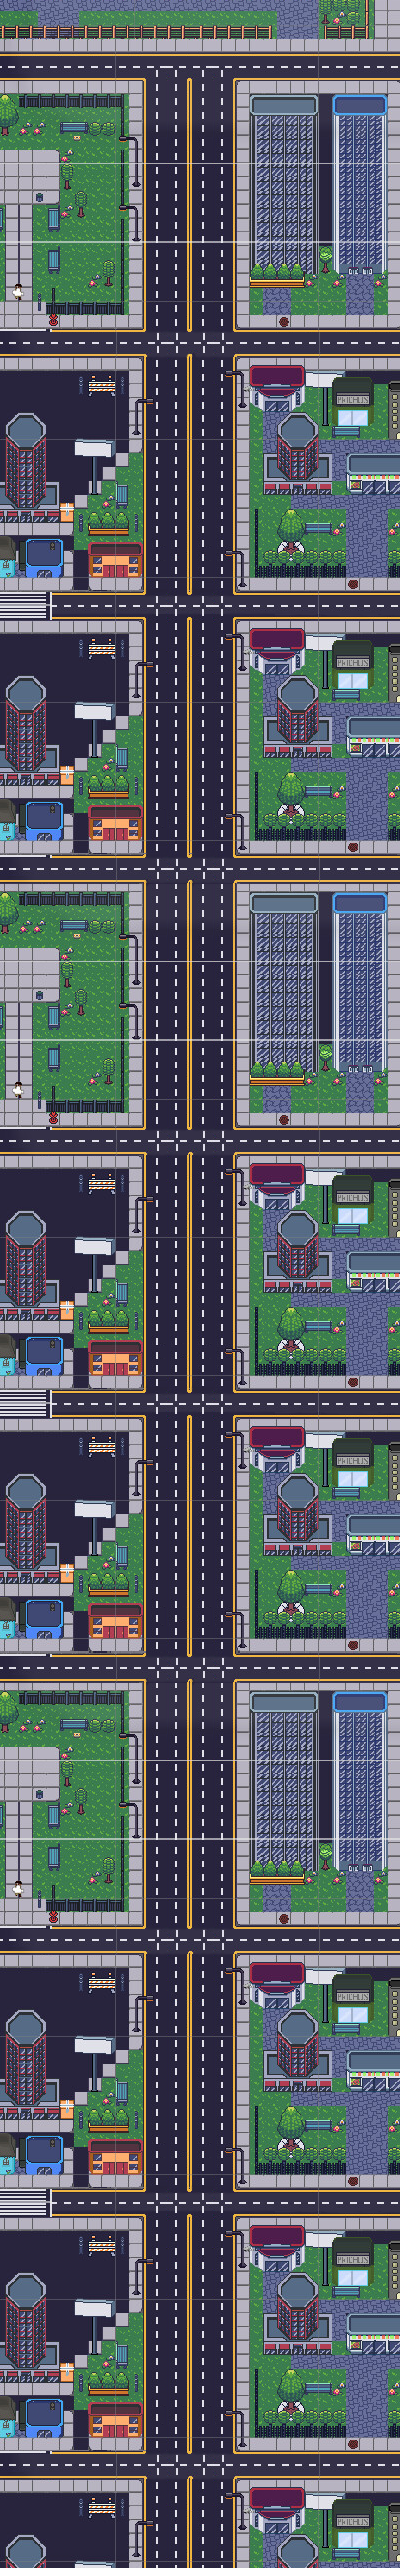
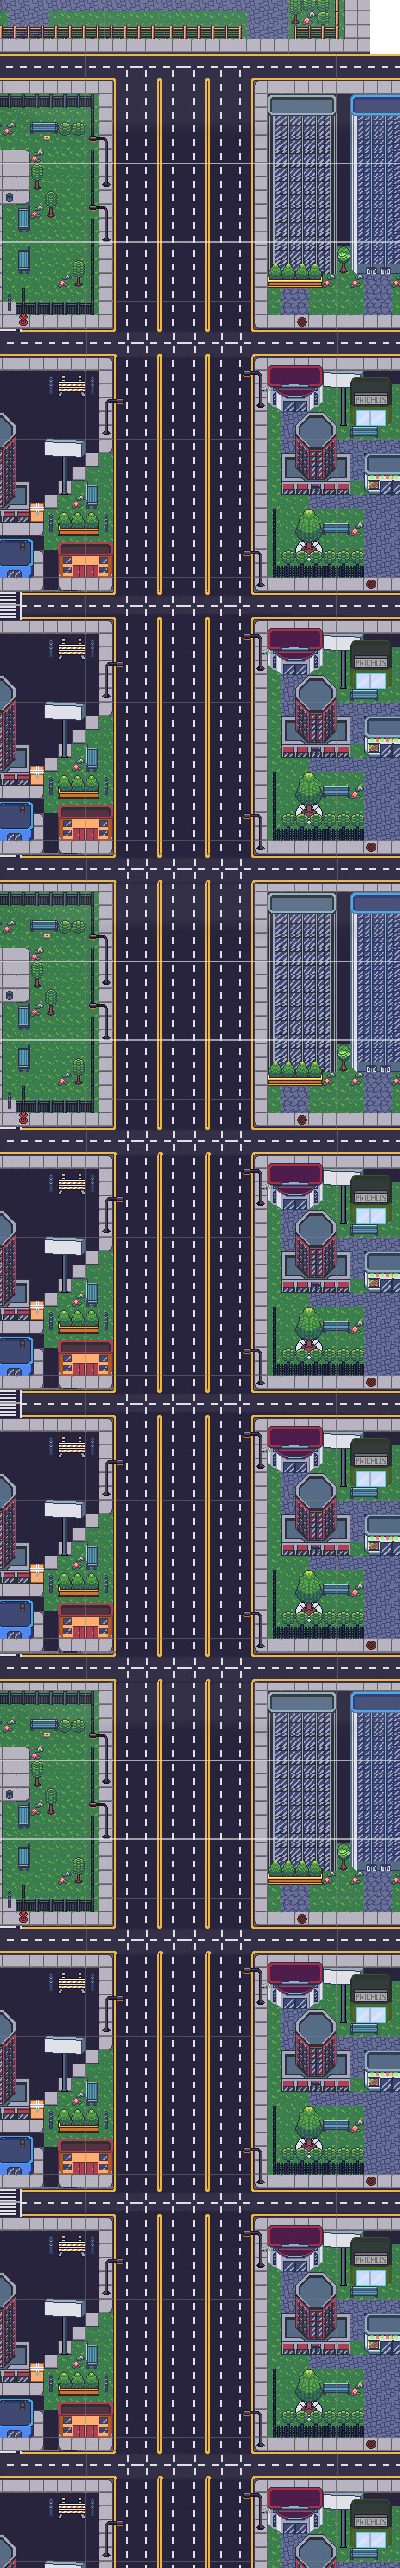
Actualización de los mapas (Assets y códigos)

diff --git a/lib/game_page.dart b/lib/game_page.dart
@@ -330,7 +330,7 @@ class _GamePageState extends State<GamePage> {
     final screenSize = MediaQuery.of(context).size;
     String mapImage;
   if (widget.selectedMap == 'Parque') { //Si el mapa seleccionado es Parque, usar la imagen correspondiente
-    mapImage = 'assets/maps/mapa_vertical.png';
+    mapImage = 'assets/maps/mapa_parque_vertical.png';
   } else { //Si no, usar la imagen de Ciudad
     mapImage = 'assets/maps/mapa_city_vertical.png'; 
   }
@@ -363,7 +363,7 @@ class _GamePageState extends State<GamePage> {
     final screenSize = MediaQuery.of(context).size;
     String mapImage;
   if (widget.selectedMap == 'Parque') { //Si el mapa seleccionado es Parque, usar la imagen correspondiente
-    mapImage = 'assets/maps/mapa_horizontal.png';
+    mapImage = 'assets/maps/mapa_parque_horizontal.png';
   } else { //Si no, usar la imagen de Ciudad
     mapImage = 'assets/maps/mapa_city_horizontal.png';
   }

diff --git a/lib/map_select_page.dart b/lib/map_select_page.dart
@@ -18,7 +18,7 @@ class MapSelectPage extends StatelessWidget {
           children: [
             _MapCard(
               mapName: 'Parque',
-              imagePath: 'assets/maps/mapa_horizontal.png',
+              imagePath: 'assets/maps/mapa_parque_horizontal.png',
               isSelected: currentMap == 'Parque',
               onTap: () {
                 Navigator.pop(context, 'Parque');
